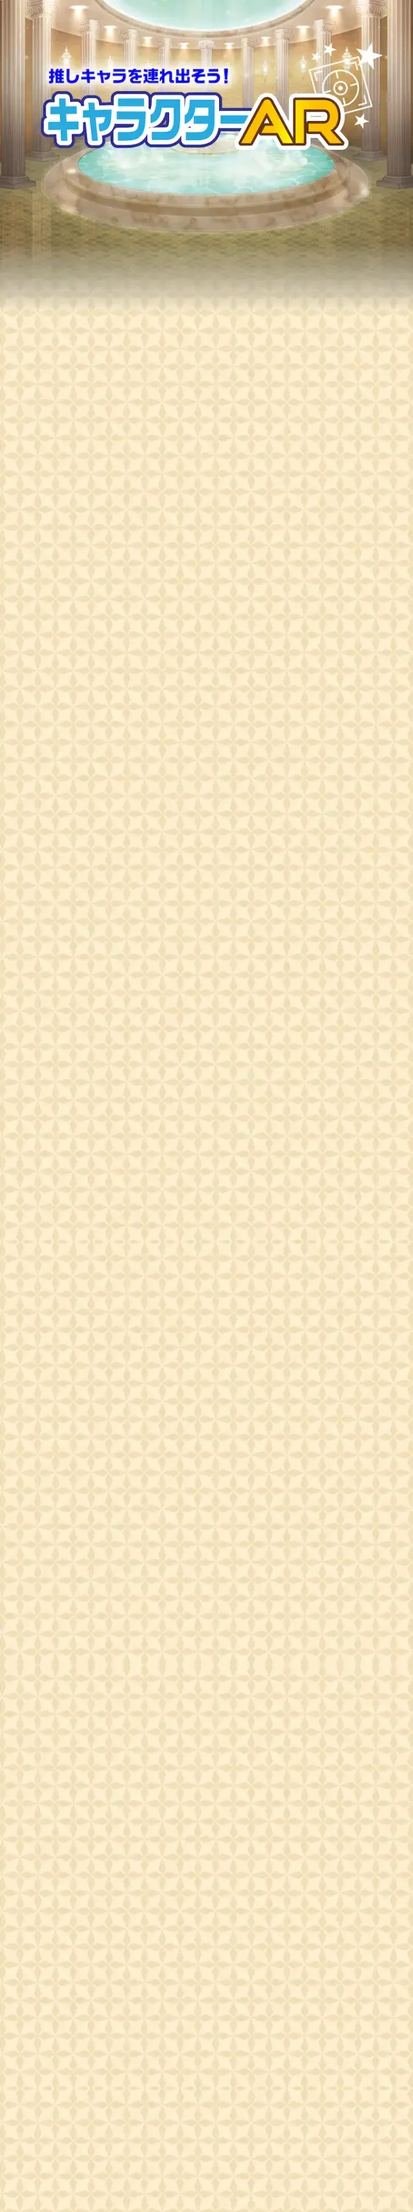
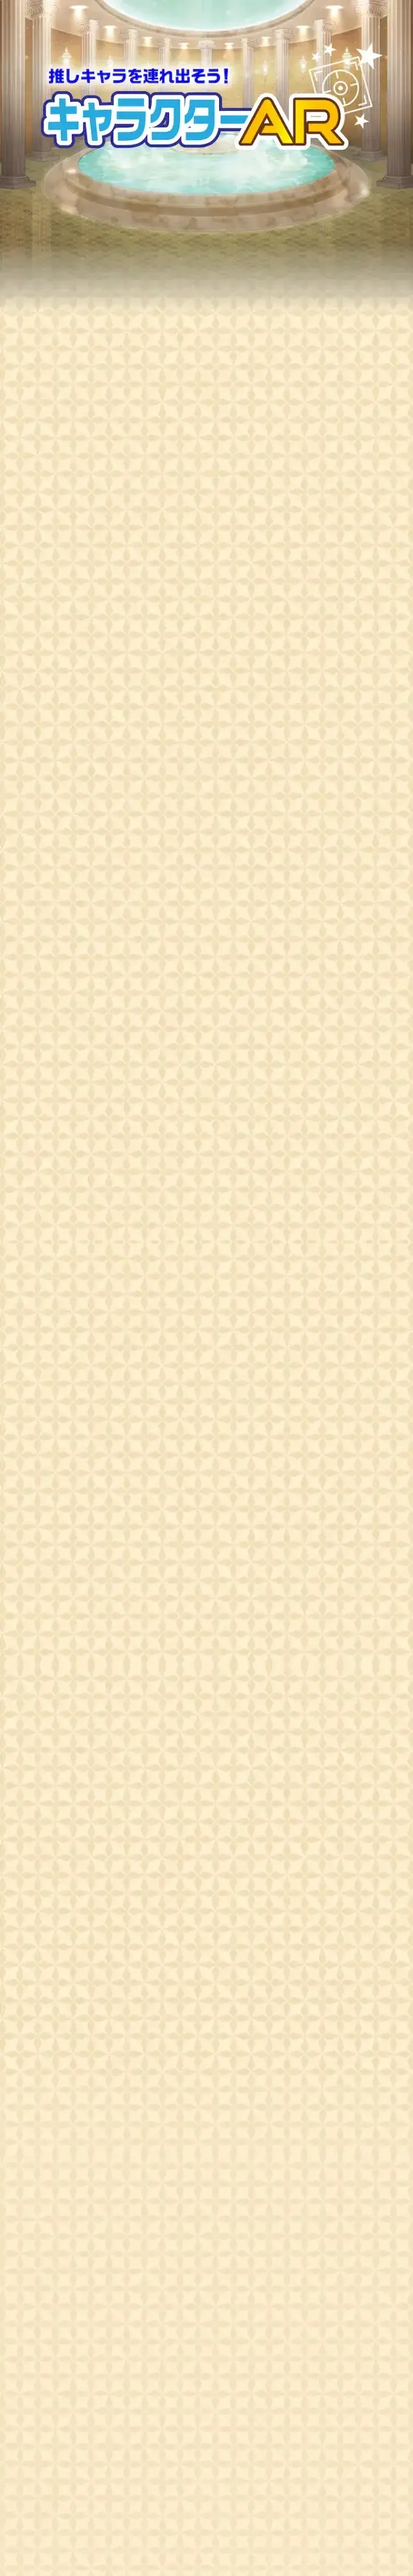
send

Changed region(s): [[0.0, 0.0, 1.0, 0.1562]]

diff --git a/stamp-rally.html b/stamp-rally.html
@@ -7,7 +7,7 @@
     <title>スタンプラリー</title>
 
     <link rel="stylesheet" href="css/common.css">
-    <link rel="stylesheet" href="css/stamp-rally.css?v=20261028_fullheight3">
+    <link rel="stylesheet" href="css/stamp-rally.css?v=20261030_publicpreview">
 </head>
 
 <body>
@@ -31,7 +31,7 @@
         <h2>特典画像</h2>
 
         <div class="reward-image-frame">
-            <img src="assets/reward/reward.webp" alt="特典画像">
+            <img src="assets/previews/reward.webp" data-preview-src="assets/previews/reward.webp" data-protected-src="assets/reward/reward.webp" alt="特典画像">
             <div class="reward-lock">🔒</div>
         </div>
     </section>
@@ -56,35 +56,35 @@
     <section class="stamp-grid">
 
         <button class="stamp-card locked" data-character-id="5" type="button">
-            <img class="stamp" src="assets/stamps/stamp02.png" alt="スタンプ02">
+            <img class="stamp" src="assets/previews/stamp02.webp" data-preview-src="assets/previews/stamp02.webp" data-protected-src="assets/stamps/stamp02.png" alt="スタンプ02">
         </button>
 
         <button class="stamp-card locked" data-character-id="9" type="button">
-            <img class="stamp" src="assets/stamps/stamp06.png" alt="スタンプ06">
+            <img class="stamp" src="assets/previews/stamp06.webp" data-preview-src="assets/previews/stamp06.webp" data-protected-src="assets/stamps/stamp06.png" alt="スタンプ06">
         </button>
 
         <button class="stamp-card locked" data-character-id="6" type="button">
-            <img class="stamp" src="assets/stamps/stamp03.png" alt="スタンプ03">
+            <img class="stamp" src="assets/previews/stamp03.webp" data-preview-src="assets/previews/stamp03.webp" data-protected-src="assets/stamps/stamp03.png" alt="スタンプ03">
         </button>
 
         <button class="stamp-card locked" data-character-id="4" type="button">
-            <img class="stamp" src="assets/stamps/stamp01.png" alt="スタンプ01">
+            <img class="stamp" src="assets/previews/stamp01.webp" data-preview-src="assets/previews/stamp01.webp" data-protected-src="assets/stamps/stamp01.png" alt="スタンプ01">
         </button>
 
         <button class="stamp-card locked" data-character-id="7" type="button">
-            <img class="stamp" src="assets/stamps/stamp04.png" alt="スタンプ04">
+            <img class="stamp" src="assets/previews/stamp04.webp" data-preview-src="assets/previews/stamp04.webp" data-protected-src="assets/stamps/stamp04.png" alt="スタンプ04">
         </button>
 
         <button class="stamp-card locked" data-character-id="10" type="button">
-            <img class="stamp" src="assets/stamps/stamp07.png" alt="スタンプ07">
+            <img class="stamp" src="assets/previews/stamp07.webp" data-preview-src="assets/previews/stamp07.webp" data-protected-src="assets/stamps/stamp07.png" alt="スタンプ07">
         </button>
 
         <button class="stamp-card locked" data-character-id="8" type="button">
-            <img class="stamp" src="assets/stamps/stamp05.png" alt="スタンプ05">
+            <img class="stamp" src="assets/previews/stamp05.webp" data-preview-src="assets/previews/stamp05.webp" data-protected-src="assets/stamps/stamp05.png" alt="スタンプ05">
         </button>
 
         <button class="stamp-card locked" data-character-id="11" type="button">
-            <img class="stamp" src="assets/stamps/stamp08.png" alt="スタンプ08">
+            <img class="stamp" src="assets/previews/stamp08.webp" data-preview-src="assets/previews/stamp08.webp" data-protected-src="assets/stamps/stamp08.png" alt="スタンプ08">
         </button>
 
     </section>
@@ -96,7 +96,7 @@
     <script src="https://cdn.jsdelivr.net/npm/canvas-confetti@1.9.3/dist/confetti.browser.min.js"></script>
     <script src="https://cdn.jsdelivr.net/npm/@supabase/supabase-js@2"></script>
     <script src="js/supabase.js"></script>
-    <script type="module" src="js/stamp-rally.js?v=20261030_button"></script>
+    <script type="module" src="js/stamp-rally.js?v=20261030_publicpreview"></script>
 
 <!-- Cloudflare Web Analytics -->
 <script

diff --git a/js/stamp-rally.js b/js/stamp-rally.js
@@ -1,3 +1,4 @@
+import { prepareCharacterMedia, prepareRewardMedia } from "./protected-media.js";
 import { characters, stampCharacters } from "./data/characters.js?v=20261027_ar8";
 
 const MAX_STAMPS =
@@ -33,8 +34,12 @@ async function loadStamps() {
 
         card.disabled = true;
         card.onclick = null;
+        const image = card.querySelector("img");
+        if (image?.dataset.previewSrc) image.src = image.dataset.previewSrc;
     });
 
+    const rewardPreview = document.querySelector("#rewardBox img");
+    rewardPreview.src = rewardPreview.dataset.previewSrc;
     const unlocked = new Set();
 
     data.forEach(item => {
@@ -60,6 +65,17 @@ async function loadStamps() {
     });
 
     updateStampLevel(unlocked.size);
+    const tasks = stampCharacters.filter(c => unlocked.has(c.id)).map(async character => {
+        await prepareCharacterMedia(character, ["stamp"]);
+        const image = document.querySelector(`.stamp-card[data-character-id="${character.id}"] img`);
+        if (image) image.src = character.stamp;
+    });
+    if (unlocked.size === MAX_STAMPS) tasks.push((async () => {
+        const reward = await prepareRewardMedia(["card"]);
+        document.querySelector("#rewardBox img").src = reward.card;
+    })());
+    const mediaResults = await Promise.allSettled(tasks);
+    mediaResults.forEach(result => { if (result.status === "rejected") console.error(result.reason); });
 
     if (unlocked.size >= MAX_STAMPS && !fromComplete) {
         launchConfetti();

diff --git a/js/character-list.js b/js/character-list.js
@@ -1,3 +1,4 @@
+import { prepareCharacterMedia } from "./protected-media.js";
 import { characters } from "./data/characters.js?v=20261029_order";
 
 const characterGrid = document.getElementById("characterGrid");
@@ -54,7 +55,7 @@ function renderCharacterGrid() {
 
         card.innerHTML = `
             <div class="character-image-wrap">
-                <img src="${character.portrait}" alt="${character.name}">
+                <img src="${character.arOnly ? `assets/previews/silhouette${String(character.id - 3).padStart(2, "0")}.webp` : character.portrait}" alt="${character.name}">
                 ${isCollected ? "" : `
                         <div class="locked-badge" aria-label="未獲得">
                             <svg viewBox="0 0 24 24" aria-hidden="true">
@@ -112,6 +113,11 @@ function renderCharacterGrid() {
         }
 
         characterGrid.appendChild(card);
+        if (isCollected && character.arOnly) {
+            prepareCharacterMedia(character, ["portrait"]).then(() => {
+                card.querySelector(".character-image-wrap img").src = character.portrait;
+            }).catch(error => console.error("Portrait unavailable:", error));
+        }
     });
 }
 

diff --git a/js/protected-media.js b/js/protected-media.js
@@ -4,7 +4,7 @@ export async function prepareCharacterMedia(character, fields) {
     if (character.free) return;
     let paths = originalPaths.get(character);
     if (!paths) {
-        paths = {model:character.model, card:character.card, portrait:character.portrait, voice:character.voice};
+        paths = {model:character.model, card:character.card, portrait:character.portrait, voice:character.voice, stamp:character.stamp};
         originalPaths.set(character, paths);
     }
     await initAnonymousUser();
@@ -33,3 +33,10 @@ export async function prepareCharacterMedia(character, fields) {
     fields.forEach((field,index) => { if(urls[index]) character[field]=urls[index]; });
 }
 
+
+// Uses the same authenticated loader; the server checks all eight required stamps.
+const rewardMedia = {card:"./assets/reward/reward.webp", voice:"./assets/sounds/complete.mp3"};
+export async function prepareRewardMedia(fields = ["card", "voice"]) {
+    await prepareCharacterMedia(rewardMedia, fields);
+    return rewardMedia;
+}

diff --git a/complete.html b/complete.html
@@ -45,7 +45,7 @@
             <div class="reward-image reveal-delay">
 
                 <img
-                    src="assets/reward/reward.webp"
+                    id="completeRewardImage"
                     alt="Reward">
 
             </div>
@@ -65,12 +65,12 @@
     <audio
         id="completeVoice"
         preload="auto"
-        src="assets/sounds/complete.mp3">
+        data-protected-src="assets/sounds/complete.mp3">
     </audio>
 
     <script src="https://cdn.jsdelivr.net/npm/@supabase/supabase-js@2"></script>
 <script src="js/supabase.js"></script>
-<script type="module" src="js/complete.js?v=20261027_ar8"></script>
+<script type="module" src="js/complete.js?v=20261030_protected"></script>
 
     <a id="homeButton" href="home.html">🏠</a>
 

diff --git a/character-list.html b/character-list.html
@@ -11,7 +11,7 @@
     <title>キャラクターAR</title>
 
     <link rel="stylesheet" href="css/common.css">
-    <link rel="stylesheet" href="css/character-list.css?v=20261028_riverside6">
+    <link rel="stylesheet" href="css/character-list.css?v=20261030_equalheights">
 
 </head>
 
@@ -52,7 +52,7 @@
     <script src="js/supabase.js"></script>
 
     <script type="module"
-            src="js/character-list.js?v=20261029_order"></script>
+            src="js/character-list.js?v=20261030_silhouettes"></script>
 
 <!-- Cloudflare Web Analytics -->
 <script

diff --git a/js/complete.js b/js/complete.js
@@ -1,6 +1,10 @@
+import { prepareRewardMedia } from "./protected-media.js";
 import { requireAccess } from "./access.js?v=20261027_ar8";
 document.querySelector("main").hidden = true;
 await requireAccess();
+const reward = await prepareRewardMedia();
+document.getElementById("completeRewardImage").src = reward.card;
+document.getElementById("completeVoice").src = reward.voice;
 document.querySelector("main").hidden = false;
 const completeVoice = document.getElementById("completeVoice");
 const playVoiceButton = document.getElementById("playVoiceButton");

diff --git a/css/stamp-rally.css b/css/stamp-rally.css
@@ -398,3 +398,13 @@ body::after {
 }
 #homeButton::before { display: block; }
 #homeButton:focus-visible { outline: 3px solid #006bff; outline-offset: 3px; }
+
+/* Public placeholders must remain visible over the illustrated background. */
+.stamp-grid .stamp-card.locked {
+    opacity: .85;
+    filter: grayscale(100%);
+}
+
+/* Authorized public low-resolution artwork is shown faded until collection. */
+.stamp-grid .stamp-card.locked { opacity: .55; }
+.stamp-grid .stamp-card.locked[data-character-id="11"] { opacity: .55; }

diff --git a/css/character-list.css b/css/character-list.css
@@ -249,3 +249,14 @@ body::before {
     max-width: 92%;
     min-width: 0;
 }
+
+/* Equal card heights across locked and collected characters. */
+.character-grid {
+    grid-auto-rows: 1fr;
+    align-items: stretch;
+}
+.character-actions-placeholder {
+    display: grid;
+    visibility: hidden;
+    pointer-events: none;
+}

diff --git a/CONTENT-ACCESS.md b/CONTENT-ACCESS.md
@@ -1,0 +1,20 @@
+# Proteção de conteúdo — implementação local 30/10/2026
+
+Não publicado. Não houve alteração de Supabase, RLS, coleta ou MindAR.
+
+Worker: server/worker.mjs. Usa token Supabase validado no servidor e registros existentes em user_stamps. IDs 4–11 contam para o prêmio; 12–14 exigem scan individual e não contam. Sem autorização: 403. Backend indisponível: 503. Mídias protegidas: stamps, cartões, vozes, modelos, prêmio e cópias dos três cartões na pasta de retratos. Retratos de prévia dos oito personagens, markers, molduras e efeito stamp.mp3 continuam públicos por sua função no layout/coleta.
+
+Cache: respostas protegidas e negações usam private/no-store e instruções no-store para CDN; não configurar regras de cache que sobreponham estas instruções. HTML/JS retornam no-store para receber o carregamento atualizado. O cache privado de blobs só reutiliza mídia já entregue a uma sessão autorizada.
+
+Prévia normal 8087 agora usa o Worker, preservando a mesma origem e sessão. 8088 também pode ser iniciada com checks/secure-preview.mjs. Não usar o antigo servidor estático para avaliar proteção.
+
+Páginas mantêm elementos/classes/navegação. Conteúdo bloqueado usa placeholder público genérico, pois a arte original não pode ser enviada antes da autorização. Os três retratos de condutores são idênticos aos cartões; por isso também exigem desbloqueio.
+
+Publicação Pages: executar checks/build-pages.mjs em uma saída vazia; saída _pages-build/release. O script não publica e falha se a saída já existir com conteúdo. O build verifica duplicatas idênticas em rotas públicas. Para novo build, escolher/recriar a saída de forma controlada. _worker.js é cópia de server/worker.mjs, _routes.json inclui /* e não exclui rotas. Configurar SUPABASE_URL e SUPABASE_PUBLISHABLE_KEY no ambiente Pages. Build de produção e preview precisam das mesmas regras. Diretório de publicação deve ser _pages-build/release, nunca a raiz original estática. Wranger atual é de Workers Static Assets; não garante por si só execução no Pages.
+
+Antes de publicar: confirmar build real no painel, domínio estável para preservar sessão, ausência de overrides de cache e falha fechada se Functions atingir limites. Após autorização separada: substituir publicação antiga, invalidar cache e retirar/restringir deployments antigos e aliases que ainda sirvam mídias públicas. Nesta implementação nenhuma remoção ocorreu.
+
+Testes: node --experimental-vm-modules checks/security-test.mjs; node --experimental-vm-modules checks/verify.cjs; node checks/content-access-integration.mjs. Integração usa Worker real via HTTP e navegador, com Supabase simulado; não certifica RLS real nem presença física no scan. Preserva registros existentes. Quem recebeu conteúdo autorizado pode salvá-lo; não há DRM. Gravação de coleta continua no cliente conforme escopo aprovado.
+
+## Prévias públicas autorizadas
+A pedido do usuário, assets/previews contém oito stamps de 96 px e prêmio de 240 px. São arquivos públicos reduzidos exibidos com opacidade; originais, áudio e modelos continuam protegidos. Nenhum registro de coleta foi modificado. Recriar o pacote Pages antes de publicar; o pacote anterior não contém esta atualização.

diff --git a/MANUAL-SCAN-CHECK.md b/MANUAL-SCAN-CHECK.md
@@ -1,0 +1,18 @@
+# Teste manual com scans reais — prévia local
+
+Usar a mesma aba/perfil e http://localhost:8087. Não trocar para 127.0.0.1, outra porta ou navegação anônima: a origem/perfil define onde fica a sessão. Não limpar dados do navegador, não resetar stamps. Internet necessária para Supabase e CDNs. Esta prévia usa o Worker com autorização real.
+
+1. Abra http://localhost:8087/stamp-rally.html e confira o progresso atual.
+2. Clique パネルSCAN e depois SCAN開始. Permita a câmera quando o navegador solicitar. Apresente um painel/marker real correspondente aos targets atuais. Não usar ferramentas de simulação.
+3. Após reconhecimento, aguarde a confirmação normal e abra cartão/voz. Feche e confira o progresso no Rally; um stamp já coletado não deve duplicar a contagem.
+4. Em http://localhost:8087/character-list.html, confirme que só os personagens obtidos mostram as ações. Abra cartão, áudio e AR do personagem obtido. No AR, aguarde o modelo, posicione-o e teste os gestos normais.
+5. Faça o scan dos condutores conforme o fluxo normal: cada um exige seu scan e aparece na lista; a contagem do Rally continua limitada às oito estampas de IDs 4–11.
+6. Com as oito estampas na sessão, a recompensa aparece. Clique somente 特典を見る para abrir Complete com imagem/voz. Com sete stamps mais os três condutores, o prêmio deve continuar bloqueado.
+7. Recarregue a página: progresso e acesso devem continuar presentes. Uma URL de arquivo colada diretamente sem o cabeçalho de autorização deve retornar 403, mesmo para usuário coletado; as páginas carregam a mídia com token automaticamente.
+
+Não foi feita nenhuma coleta, alteração de Supabase/RLS ou desbloqueio artificial nesta preparação. Não houve publicação. Para testar em outro dispositivo será necessário acesso HTTPS e considerar que o login anônimo pode ser outro usuário. O teste aqui é no PC com webcam e localhost.
+
+Se houver falha, anotar página, personagem, etapa, mensagem e horário. Não divulgar tokens de sessão. A conta com oito stamps será usada nos testes finais de integração.
+
+## Inicialização local com certificados do Windows
+Usar Node com `--use-system-ca`: `node --use-system-ca checks/preview-server.cjs`. Diagnóstico em 30/10: sem essa opção, o Node deste PC apresentou UNABLE_TO_VERIFY_LEAF_SIGNATURE ao consultar Supabase; com ela, Auth settings e consulta REST de leitura responderam 200. A validação TLS permanece ativa. Não usar NODE_TLS_REJECT_UNAUTHORIZED=0. Nenhum registro foi modificado.
